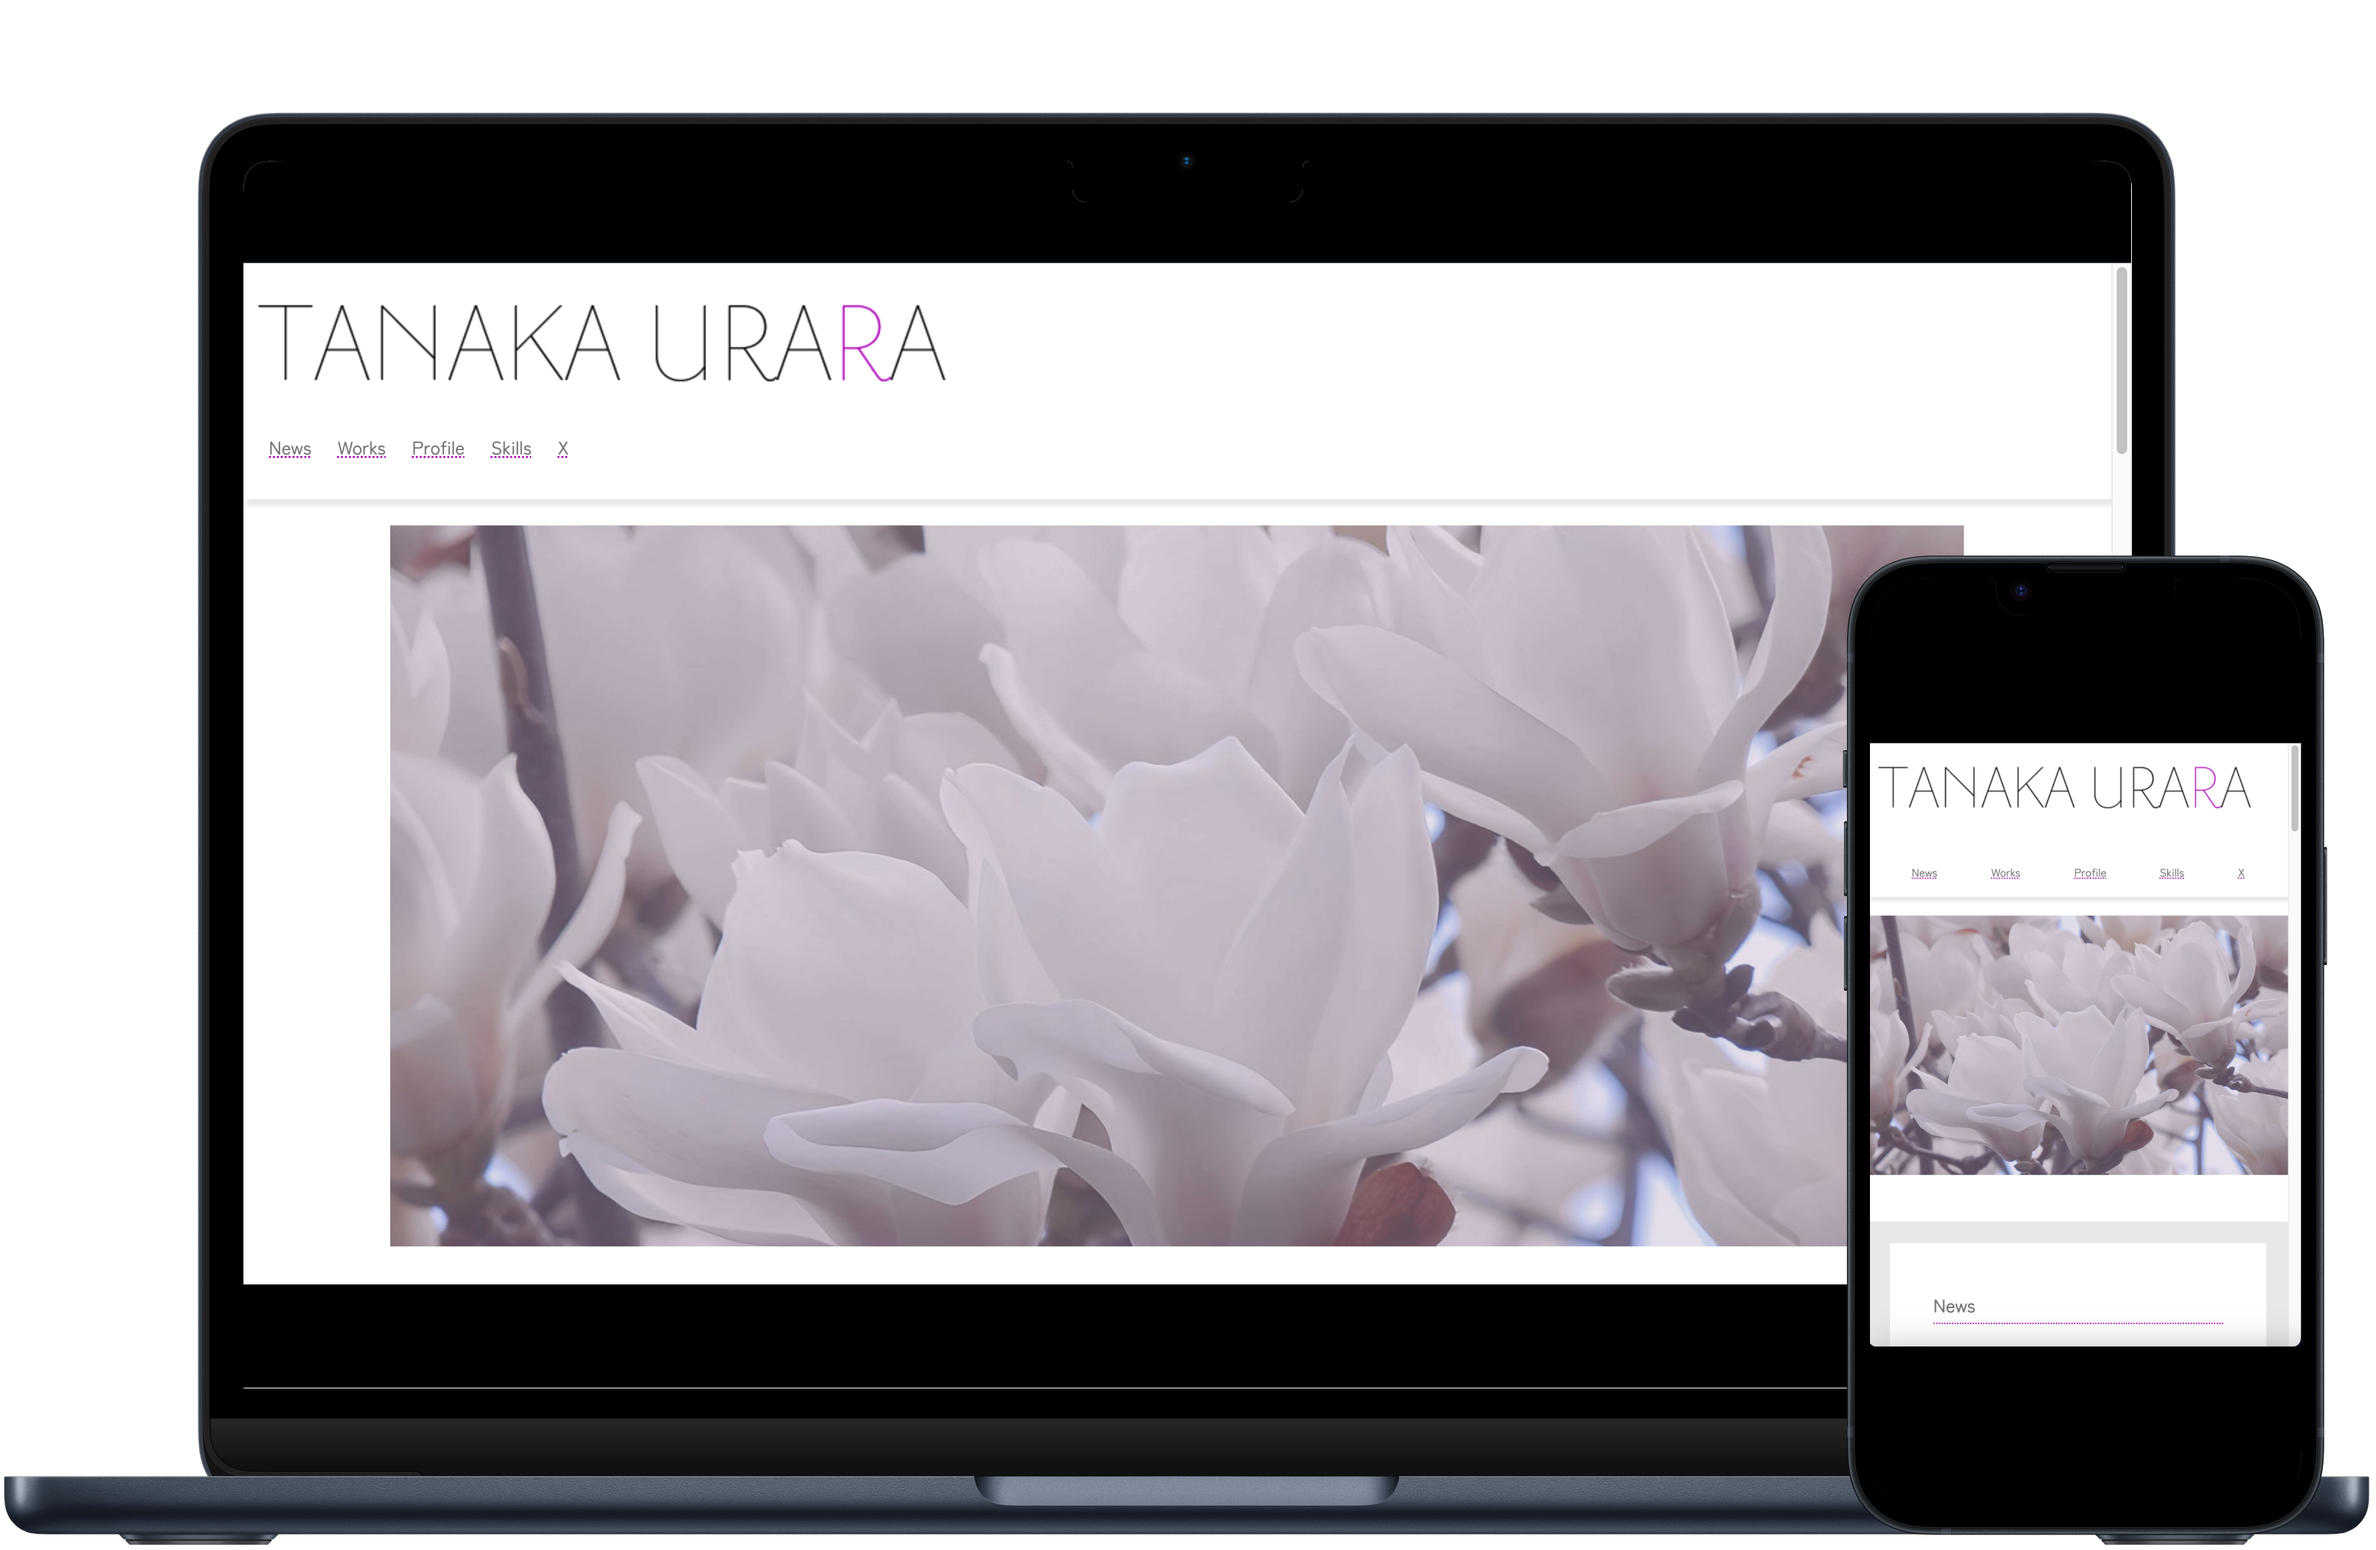
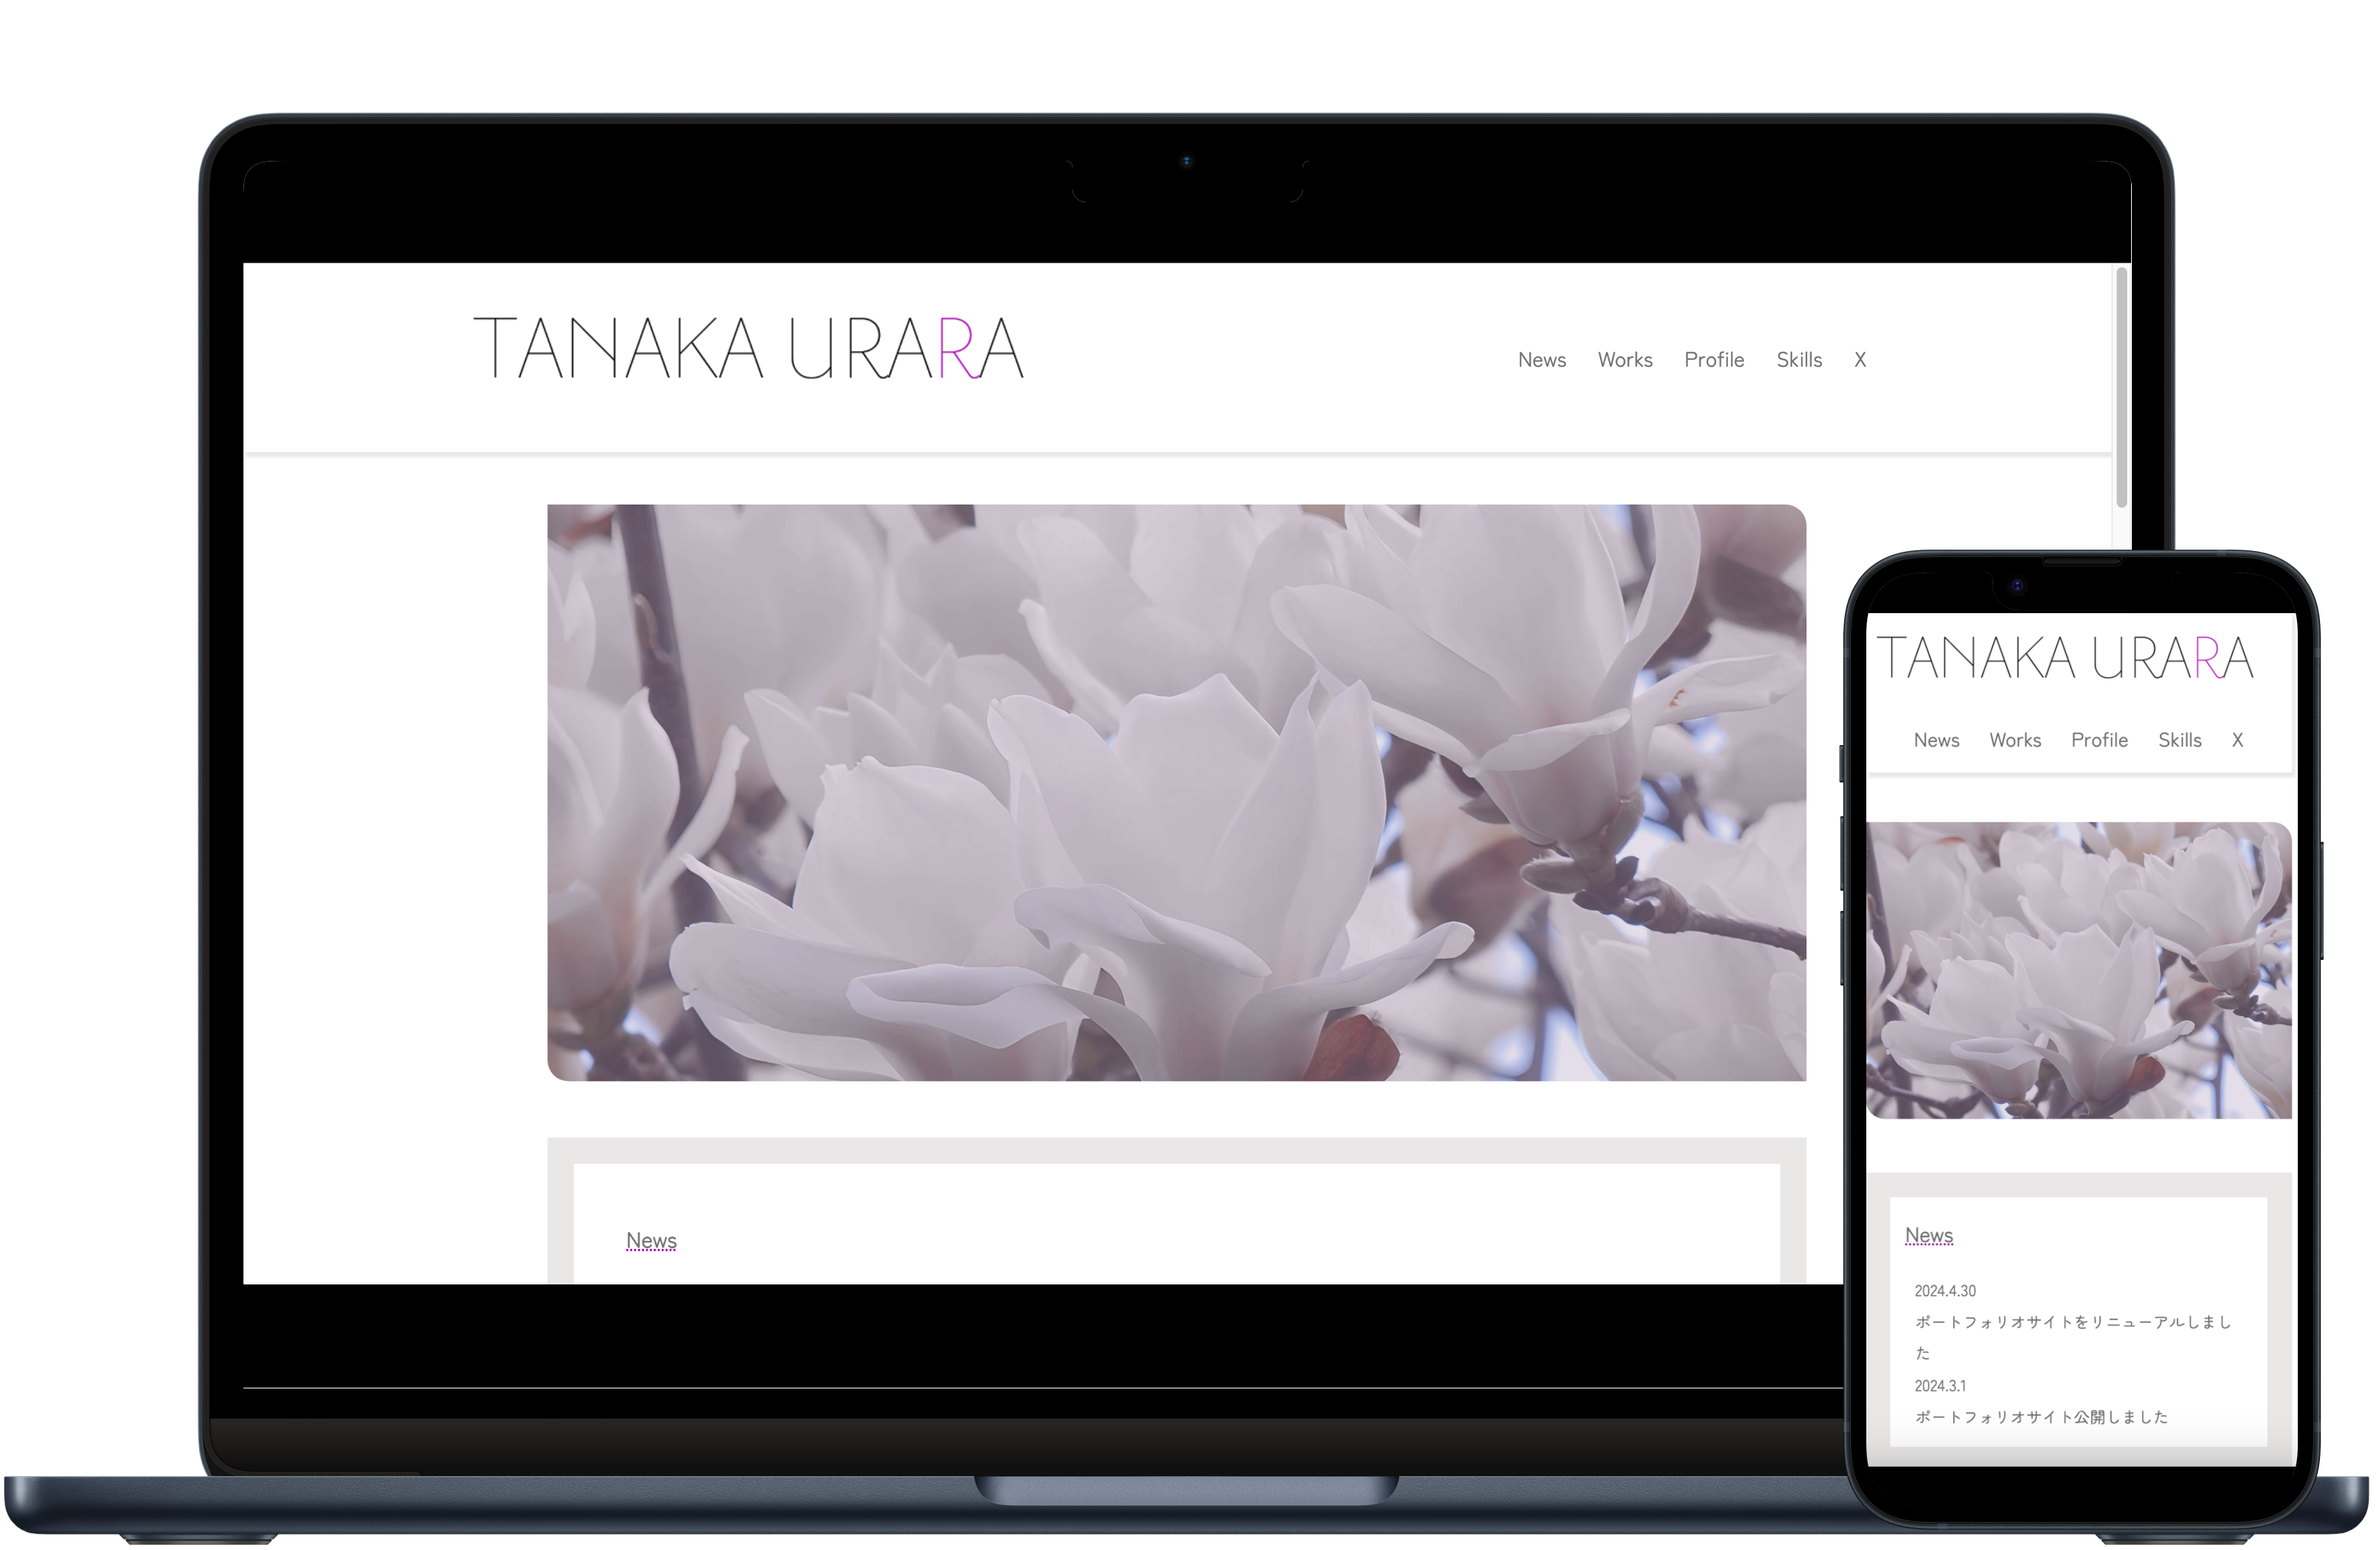
third

diff --git a/css/style.css b/css/style.css
@@ -36,23 +36,28 @@ a {
 
 /* header */
 #header {
+    align-items: center;
+    background-color: #FFF;
+    box-shadow: 3px 5px 3px #EAE7E7;
+    display: flex;
+    justify-content: space-around;
     height: 180px;
-    position: fixed;
     top: 0;
     left: 0;
     width: 100%;
-    background-color: #FFF;
     padding: 10px;
-    z-index: 1000;
-    box-shadow: 3px 5px 3px #EAE7E7;
+    /* position: fixed; */
+    /* z-index: 1000; */
 }
 #header .menu ul {
     display: flex;
     color: #707070;
 }
 #header .menu li {
-    text-decoration: underline dotted #AC00BA;
+    font-size: 1.25rem;
+    /* text-decoration: underline dotted #AC00BA; */
     text-align: center;
+    padding: 5px;
 }
 .logo a {
     display: block;
@@ -68,14 +73,13 @@ a {
 /* main visual */
 #mainvisual {
     display: block;
-    margin-top: 200px;
-    /* margin-bottom: 10px; */
+    margin-top: 50px;
 }
 #mainvisual img {
     width: 1200px;
     height: 550px;
     object-fit: cover;
-  /* padding-top: 50px; */
+    border-radius: 0 20px 0 20px;
 }
 
 /* mainvisual以下、共通部分（section-title, container, wrapper) */
@@ -97,6 +101,10 @@ a {
     display: flex;
     justify-content: space-between;
 }
+#profile .wrapper .image,
+#skills .wrapper .image {
+    width: 40%;
+}
 .wrapper .image img {
     width: 100%;
     margin: 0 auto;
@@ -109,7 +117,7 @@ a {
     padding: 40px 30px;
     font-size: 16px;
     text-align: left;
-    width: 700px;
+    width: 60%;
 }
 
 /* News */
@@ -118,7 +126,9 @@ a {
     flex-direction: column;
 }
 #news .list {
+    color: #707070;
     display: flex;
+    font-size: 1.25rem;
     justify-content: space-between;
 }
 #news.wrapper {
@@ -151,7 +161,9 @@ a {
 }
 #works .contents {
     padding: 0 40px 30px 40px;
-
+}
+#works .image img {
+    padding: 0;
 }
 #works .comment p {
     text-align: right;
@@ -252,6 +264,8 @@ a {
 
     /* Header */
     #header {
+        display: flex;
+        flex-direction: column;
         height: auto;
         padding: 0;
     }
@@ -262,7 +276,7 @@ a {
     #header ul {
         justify-content: space-between;
         margin: 0 auto;
-        padding: 20px 40px;
+        padding: 0 40px 15px 40px;
     }
     #header li {
         font-size: 0.8rem;
@@ -297,6 +311,13 @@ a {
         margin-bottom: 20px;
     }
 
+    /* News */
+    #news .inner-wrapper {
+        padding: 15px;
+    }
+    #news .list {
+        font-size: 1rem;
+    }
     /* Works */
     #works .inner-wrapper {
         display: flex;
@@ -306,7 +327,9 @@ a {
     #works .image img {
         width: 100%;
     }
-
+    #works .contents {
+        padding: 0 0 30px 0;
+    }
     /* Footer */
     #footer .logo img {
         width: 100%;

diff --git a/index.html b/index.html
@@ -72,13 +72,12 @@
                                 ロゴに関しては、シンプルすぎない少しクセのあるフォント選びをこだわった。<br>
                                 全体のページ構成もリニューアル。
                             </dd>
-
                         </dl>
                     </div>
                     <!-- Worksのコンテンツ１ -->
                     <div class="contents">
                         <div class="image">
-                            <img src="img/work.png" alt="works_img">
+                            <img src="img/work_1.png" alt="works_img">
                         </div>
                         <dl>
                             <dt>Title</dt>
